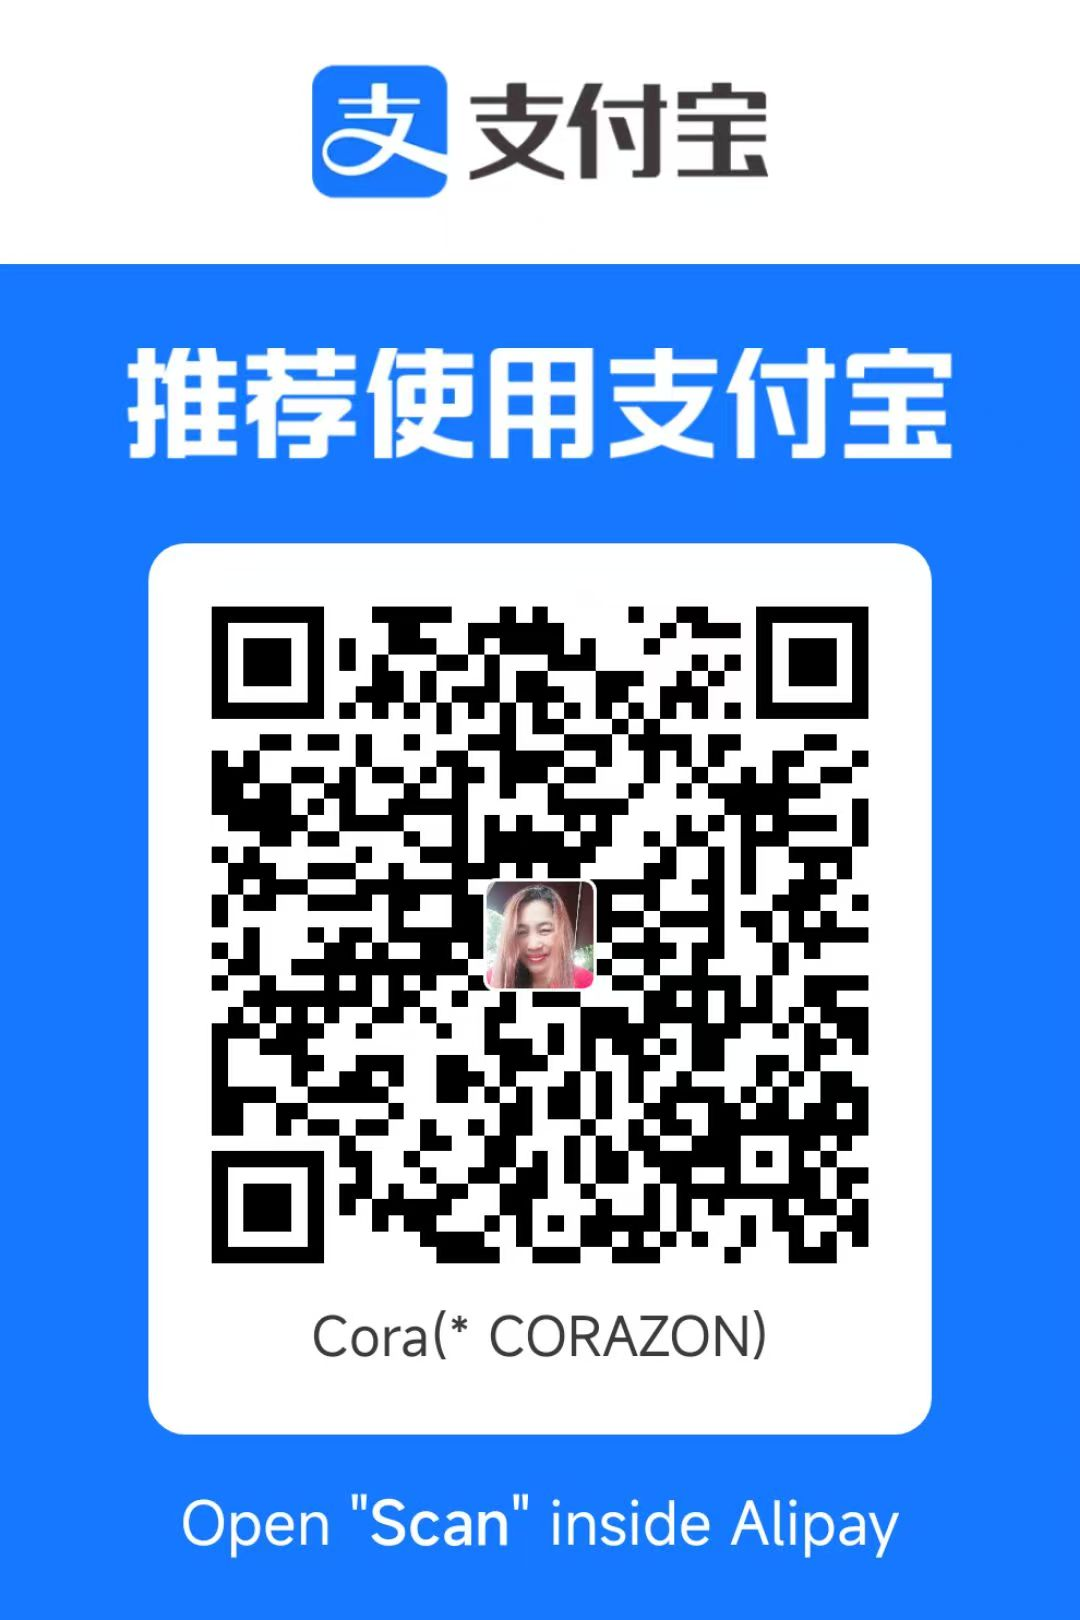
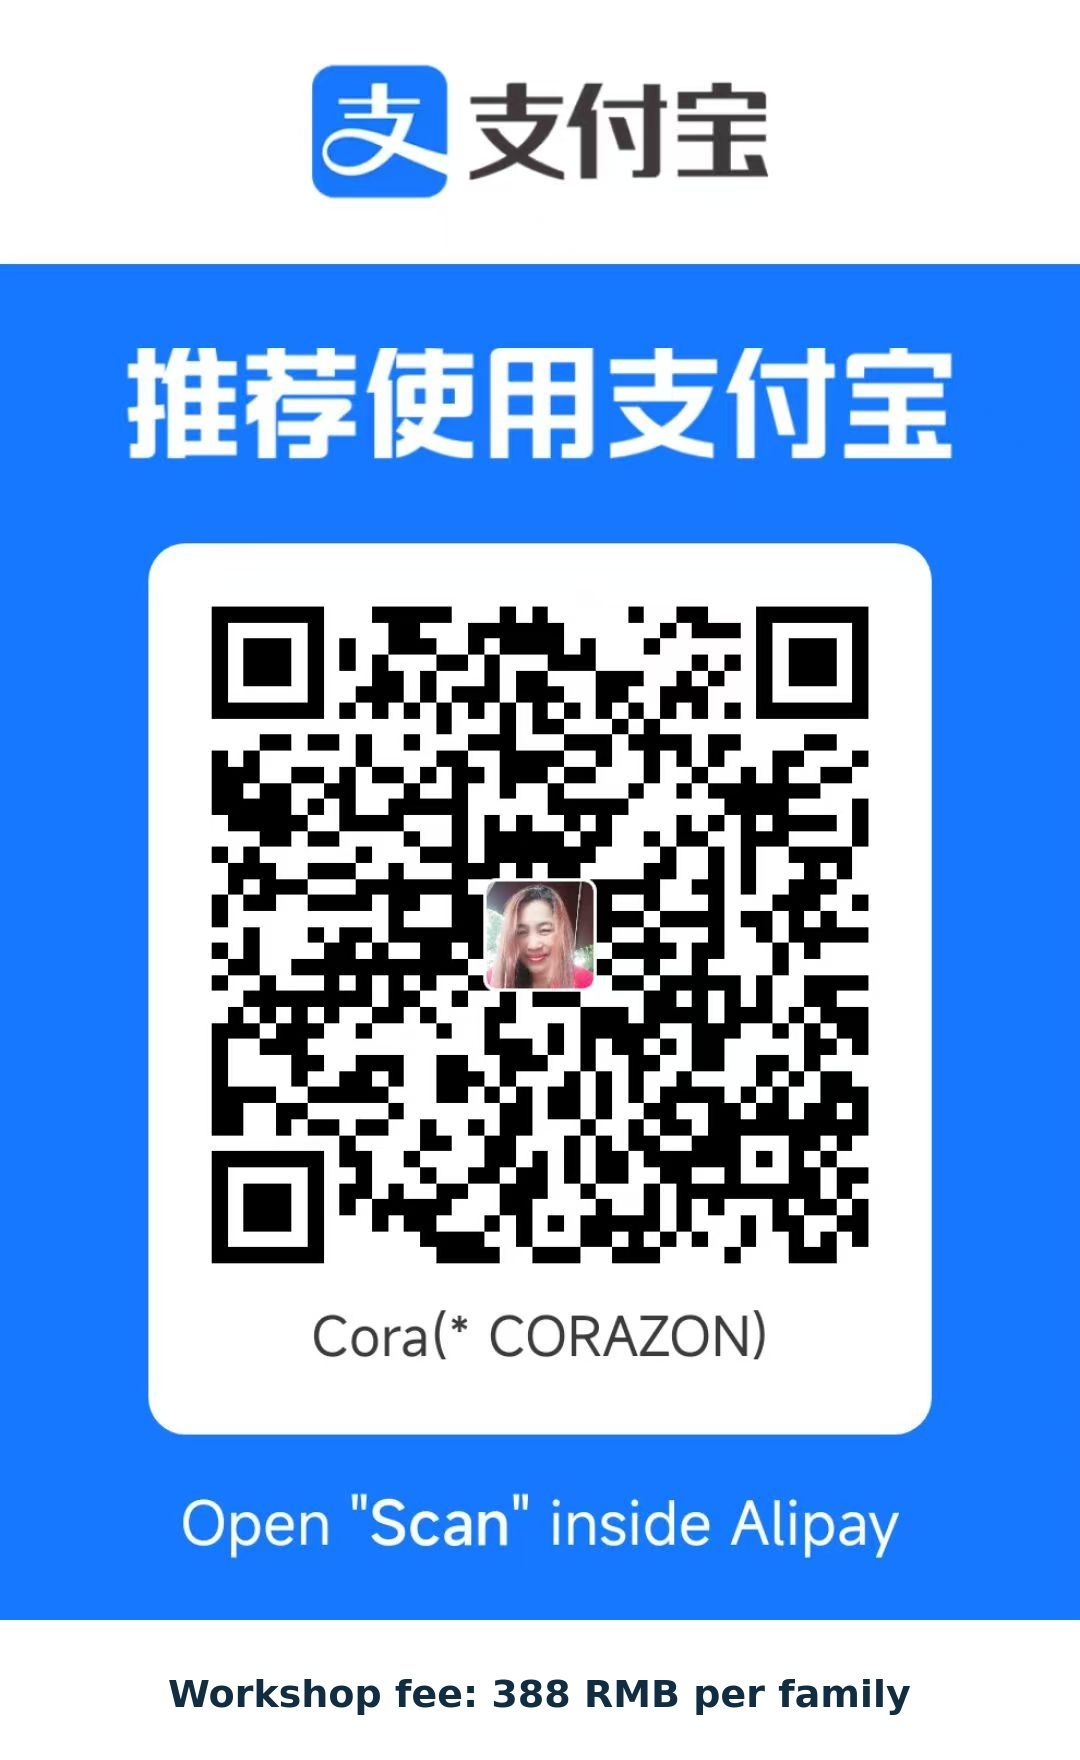
Update payment images and workshop page content
Replit-Commit-Author: Agent

diff --git a/artifacts/raos/src/pages/training-workshop.tsx b/artifacts/raos/src/pages/training-workshop.tsx
@@ -134,7 +134,7 @@ const parentCopy: Record<ParentLocale, {
     overview: "When a child says, “My teacher doesn’t like me,” parents can feel worried, protective, and unsure what to do next. This calm, practical workshop helps you listen carefully, protect your child’s dignity, gather useful information, and communicate with school constructively.",
     learn: "What you will learn", included: "What your registration includes", notIncluded: "What this workshop does not include", who: "Who this is for", faq: "Frequently asked questions", accessibility: "Accessibility and participation support",
     formTitle: "Reserve your family place", required: "Required", optional: "Optional", fullName: "Parent or caregiver name", firstName: "First name", lastName: "Last name", email: "Email address", wechat: "WeChat ID or display name", country: "Country or region", preferredLanguage: "Preferred workshop language", phone: "Mobile number", city: "City", age: "Child age range or grade band", schoolType: "School type", question: "What would you most like help with?", support: "Accessibility, language, or participation support needed", terms: "I agree to the workshop terms.", privacy: "I agree to the Privacy Notice and processing of my registration and payment information.", community: "I would like to remain connected to the ReMynd parent community and receive future educational information (optional).",
-    choosePayment: "Choose payment method", paymentPending: "Your place remains pending until ReMynd verifies payment. Uploading a screenshot does not confirm registration.", receipt: "Payment confirmation screenshot", reference: "Payment reference or payer name", submit: "Continue to payment", sending: "Sending verification code…", codeTitle: "Check your email", codeHelp: "Enter the six-digit verification code we sent. Payment review happens after verification.", verify: "Verify and submit", success: "Thank you. Your registration and payment are pending administrator review.", review: "We will email you after your payment has been reviewed.", constructive: "This workshop is not about fighting with the school, blaming anyone, or assuming that a teacher has acted with harmful intent. It helps parents understand what may be happening, support their child, gather useful information, and communicate with the school in a calm and constructive way.",
+    choosePayment: "Choose payment method", paymentPending: "Pay using the QR code, then continue to email verification. You must upload a payment receipt before final submission. Your place is not confirmed until ReMynd verifies the payment.", receipt: "Payment receipt screenshot", reference: "Payment reference or payer name", submit: "Continue to email verification", sending: "Sending verification code…", codeTitle: "Check your email", codeHelp: "Enter the six-digit verification code we sent. QR payments require a receipt upload below. Payment review happens after submission.", verify: "Verify and submit for payment review", success: "Thank you. Your registration and payment are pending administrator review.", review: "We will email you after your payment has been reviewed.", constructive: "This workshop is not about fighting with the school, blaming anyone, or assuming that a teacher has acted with harmful intent. It helps parents understand what may be happening, support their child, gather useful information, and communicate with the school in a calm and constructive way.",
     learnItems: ["Listen without dismissing the child or confirming an untested conclusion", "Separate observable events from assumptions and interpretations", "Consider frequency, context, intensity, impact, and several possible explanations", "Prepare for a respectful conversation with the school", "Identify practical next steps, review dates, and appropriate escalation thresholds"],
     includedItems: ["One live 90-minute online parent workshop", "Bilingual Parent Action Toolkit", "A Parent-School Meeting Preparation Form and observation template", "Sample language for contacting a teacher or school", "Access to the workshop WeChat group", "Seven days of structured, workshop-related WeChat group support"],
     excludedItems: ["Individual consultation, counselling, or therapy", "Psychological or diagnostic assessment", "Review of school records or individual case documents", "Legal advice, mediation, or representation", "A determination about a teacher’s intentions or conduct", "Unlimited ongoing individual support through WeChat"],
@@ -145,7 +145,7 @@ const parentCopy: Record<ParentLocale, {
     overview: "当孩子说“老师不喜欢我”时，家长可能会担心、想保护孩子，也不确定下一步该怎么做。本工作坊帮助您认真倾听、保护孩子的尊严、收集有用信息，并以建设性的方式与学校沟通。",
     learn: "您将学到", included: "报名包括", notIncluded: "本工作坊不包括", who: "适合参加者", faq: "常见问题", accessibility: "无障碍及参与支持",
     formTitle: "为您的家庭预留名额", required: "必填", optional: "选填", fullName: "家长或照顾者姓名", firstName: "名字", lastName: "姓氏", email: "电子邮箱", wechat: "微信号或微信昵称", country: "国家或地区", preferredLanguage: "希望使用的工作坊语言", phone: "手机号码", city: "城市", age: "孩子年龄范围或年级段", schoolType: "学校类型", question: "您最希望在本次工作坊中获得哪些帮助？", support: "无障碍、语言或参与方面的支持需要", terms: "我同意工作坊条款。", privacy: "我同意隐私声明，并同意处理我的报名及付款信息。", community: "我愿意继续加入ReMynd家长社区并接收未来教育信息（选填）。",
-    choosePayment: "选择付款方式", paymentPending: "在ReMynd核实付款前，您的名额仍处于待确认状态。上传截图并不代表报名已确认。", receipt: "付款确认截图", reference: "付款参考号或付款人姓名", submit: "继续付款", sending: "正在发送验证码…", codeTitle: "请查收电子邮件", codeHelp: "请输入我们发送的六位验证码。验证后，ReMynd将审核付款。", verify: "验证并提交", success: "谢谢。您的报名和付款正在等待管理员审核。", review: "付款审核完成后，我们会通过电子邮件通知您。", constructive: "本工作坊不是为了与学校争斗、指责任何人，或假定老师有恶意。它帮助家长理解可能发生的情况、支持孩子、收集有用信息，并以冷静和建设性的方式与学校沟通。",
+    choosePayment: "选择付款方式", paymentPending: "请使用二维码付款，然后继续验证电子邮箱。最终提交前必须上传付款凭证。ReMynd核实付款后，名额才会确认。", receipt: "付款凭证截图", reference: "付款参考号或付款人姓名", submit: "继续验证电子邮箱", sending: "正在发送验证码…", codeTitle: "请查收电子邮件", codeHelp: "请输入我们发送的六位验证码。二维码付款必须在下方上传付款凭证。提交后，ReMynd将审核付款。", verify: "验证并提交付款审核", success: "谢谢。您的报名和付款正在等待管理员审核。", review: "付款审核完成后，我们会通过电子邮件通知您。", constructive: "本工作坊不是为了与学校争斗、指责任何人，或假定老师有恶意。它帮助家长理解可能发生的情况、支持孩子、收集有用信息，并以冷静和建设性的方式与学校沟通。",
     learnItems: ["倾听孩子，不轻易否定，也不立即确认未经验证的结论", "区分可观察的事件与假设和解读", "考虑频率、情境、强度、影响及多种可能解释", "为尊重和有效的家校沟通做好准备", "确定实际下一步、复盘日期和适当的升级标准"],
     includedItems: ["一次90分钟线上家长工作坊", "双语家长行动工具包", "家校会谈准备表和观察记录模板", "联系老师或学校的示例用语", "加入工作坊微信群", "七天有结构的工作坊相关微信群支持"],
     excludedItems: ["个别咨询、辅导或治疗", "心理或诊断评估", "查阅学校记录或个案文件", "法律建议、调解或代理", "判断老师的意图或行为", "通过微信提供无限期的个别支持"],
@@ -156,7 +156,7 @@ const parentCopy: Record<ParentLocale, {
     overview: "아이가 “선생님이 나를 좋아하지 않는 것 같아요”라고 말하면 부모는 걱정되고 무엇을 해야 할지 막막할 수 있습니다. 이 차분하고 실용적인 워크숍은 아이의 이야기를 듣고 존엄성을 지키며 유용한 정보를 모으고 학교와 건설적으로 소통하도록 돕습니다.",
     learn: "배우게 될 내용", included: "등록에 포함된 내용", notIncluded: "포함되지 않는 내용", who: "참여 대상", faq: "자주 묻는 질문", accessibility: "접근성 및 참여 지원",
     formTitle: "가족 자리를 예약하세요", required: "필수", optional: "선택", fullName: "부모 또는 보호자 이름", firstName: "이름", lastName: "성", email: "이메일 주소", wechat: "WeChat ID 또는 표시 이름", country: "국가 또는 지역", preferredLanguage: "선호 워크숍 언어", phone: "휴대전화", city: "도시", age: "자녀 연령대 또는 학년", schoolType: "학교 유형", question: "이 워크숍에서 가장 도움받고 싶은 것은 무엇인가요?", support: "접근성·언어·참여 지원이 필요하다면 알려 주세요", terms: "워크숍 약관에 동의합니다.", privacy: "개인정보 보호정책 및 등록·결제 정보 처리에 동의합니다.", community: "ReMynd 부모 커뮤니티에 계속 연결되어 향후 교육 정보를 받고 싶습니다(선택).",
-    choosePayment: "결제 방법 선택", paymentPending: "ReMynd가 결제를 확인할 때까지 자리는 대기 상태입니다. 스크린샷을 업로드해도 등록이 확정되는 것은 아닙니다.", receipt: "결제 확인 스크린샷", reference: "결제 참조번호 또는 결제자 이름", submit: "결제로 계속", sending: "인증 코드를 보내는 중…", codeTitle: "이메일을 확인해 주세요", codeHelp: "받은 6자리 인증 코드를 입력해 주세요. 인증 후 결제를 검토합니다.", verify: "인증하고 제출", success: "감사합니다. 등록과 결제가 관리자 검토를 기다리고 있습니다.", review: "결제 검토가 완료되면 이메일로 안내해 드립니다.", constructive: "이 워크숍은 학교와 싸우거나 누군가를 비난하거나 교사가 해로운 의도로 행동했다고 가정하기 위한 것이 아닙니다. 부모가 상황을 이해하고 아이를 지지하며 정보를 모으고 차분하고 건설적으로 학교와 소통하도록 돕습니다.",
+    choosePayment: "결제 방법 선택", paymentPending: "QR 코드로 결제한 뒤 이메일 인증을 계속해 주세요. 최종 제출 전에 결제 영수증을 반드시 업로드해야 합니다. ReMynd가 결제를 확인한 후 자리가 확정됩니다.", receipt: "결제 영수증 스크린샷", reference: "결제 참조번호 또는 결제자 이름", submit: "이메일 인증으로 계속", sending: "인증 코드를 보내는 중…", codeTitle: "이메일을 확인해 주세요", codeHelp: "받은 6자리 인증 코드를 입력해 주세요. QR 결제는 아래에서 영수증을 업로드해야 합니다. 제출 후 결제를 검토합니다.", verify: "인증하고 결제 검토 요청", success: "감사합니다. 등록과 결제가 관리자 검토를 기다리고 있습니다.", review: "결제 검토가 완료되면 이메일로 안내해 드립니다.", constructive: "이 워크숍은 학교와 싸우거나 누군가를 비난하거나 교사가 해로운 의도로 행동했다고 가정하기 위한 것이 아닙니다. 부모가 상황을 이해하고 아이를 지지하며 정보를 모으고 차분하고 건설적으로 학교와 소통하도록 돕습니다.",
     learnItems: ["아이를 무시하거나 검증되지 않은 결론을 바로 확인하지 않고 경청하기", "관찰 가능한 사건과 가정·해석을 구분하기", "빈도·상황·강도·영향과 여러 가능한 설명 살펴보기", "존중하는 학교와의 대화를 준비하기", "실행 단계와 검토 시점, 적절한 추가 대응 기준 정하기"],
     includedItems: ["90분 온라인 부모 워크숍", "이중언어 부모 행동 툴킷", "학교 면담 준비 양식과 관찰 기록 템플릿", "교사·학교에 연락할 때 사용할 예시 문구", "워크숍 WeChat 그룹 참여", "7일간의 구조화된 워크숍 관련 WeChat 지원"],
     excludedItems: ["개별 상담·치료", "심리 또는 진단 평가", "학교 기록이나 개별 사례 자료 검토", "법률 자문·조정·대리", "교사의 의도나 행동에 대한 판단", "WeChat을 통한 무제한 개별 지원"],
@@ -175,7 +175,12 @@ function ParentWorkshopExperience({ workshop, slug, qrOptions }: { workshop: Wor
   const [form, setForm] = useState({ first_name: "", last_name: "", email: "", wechat_id: "", country: "", preferred_language: "English", phone: "", city: "", child_age_grade: "", school_type: "", help_question: "", accessibility_support: "", marketing_consent: false, terms_consent: false, privacy_consent: false, payment_method: "", payment_reference: "" });
   const t = parentCopy[locale];
   const base = getBaseUrl();
-  const update = (key: string, value: string | boolean) => setForm(f => ({ ...f, [key]: value }));
+  const update = (key: string, value: string | boolean) => {
+    setForm(f => ({ ...f, [key]: value }));
+    if (key === "payment_method" && value === "credit_card" && workshop.hosted_card_payment_url) {
+      window.open(workshop.hosted_card_payment_url, "_blank", "noopener,noreferrer");
+    }
+  };
   const setErrorMessage = (message: string) => setError(message);
   async function submitForm(e: React.FormEvent) {
     e.preventDefault(); setError(""); setSubmitting(true);
